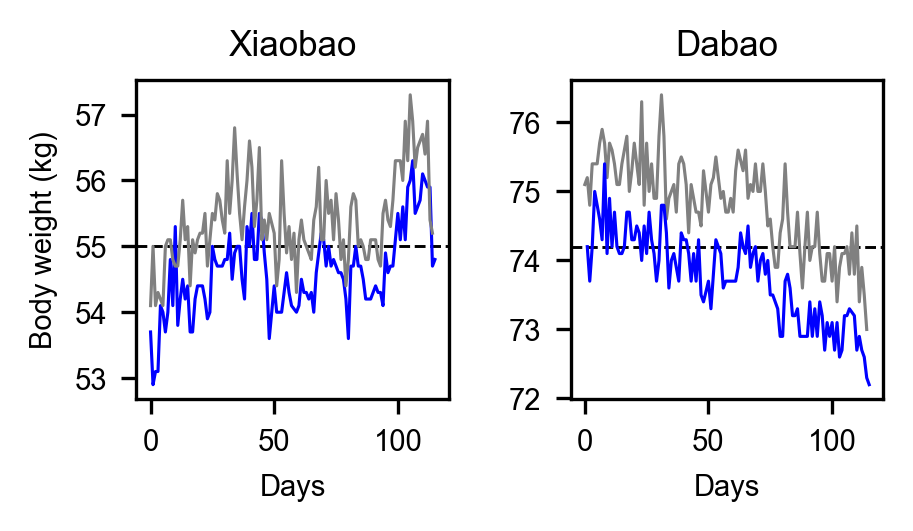
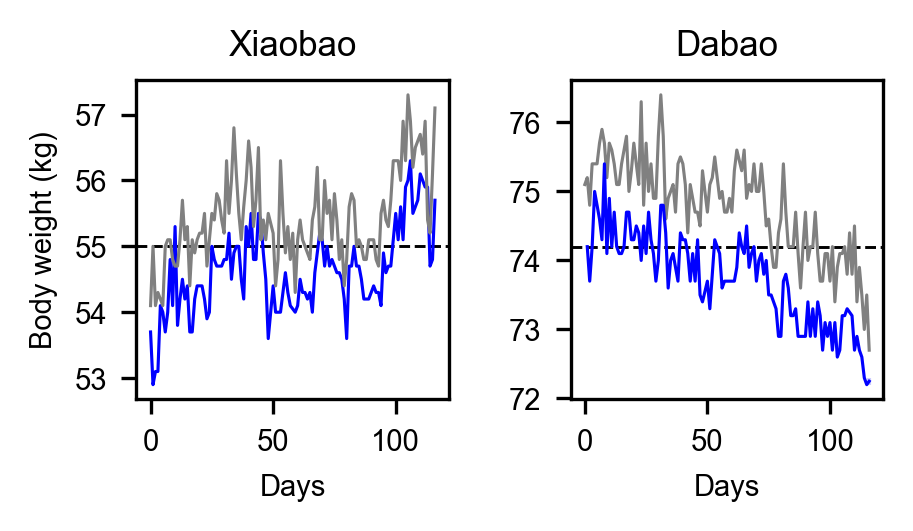
update health stats

diff --git a/health_stats_Di_Shaohe.md b/health_stats_Di_Shaohe.md
@@ -3,7 +3,7 @@ layout: player_stats
 title: Di and Shaohe Health
 author: Shaohe Wang
 author_url: https://scholar.google.com/citations?user=R_-kJV4AAAAJ&hl=en
-date: 2021-07-18
+date: 2021-07-20
 ---
 
 ### 左：吴笛；右：王少鹤
